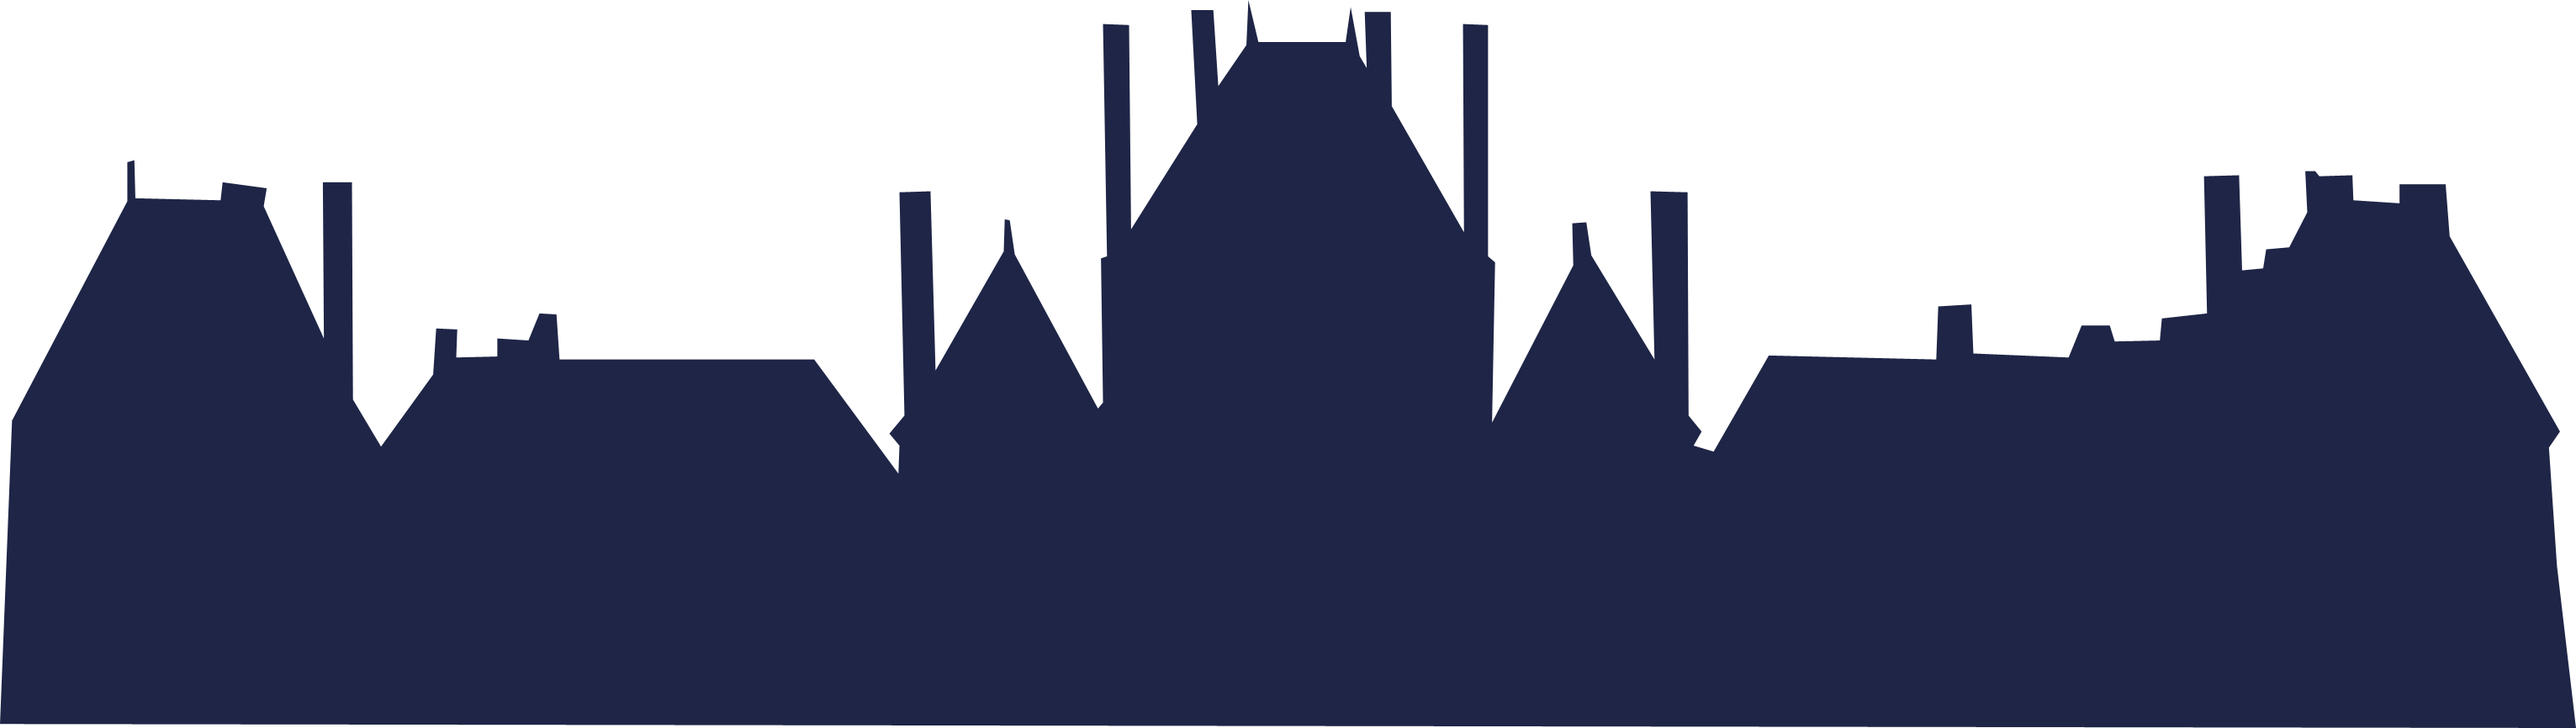
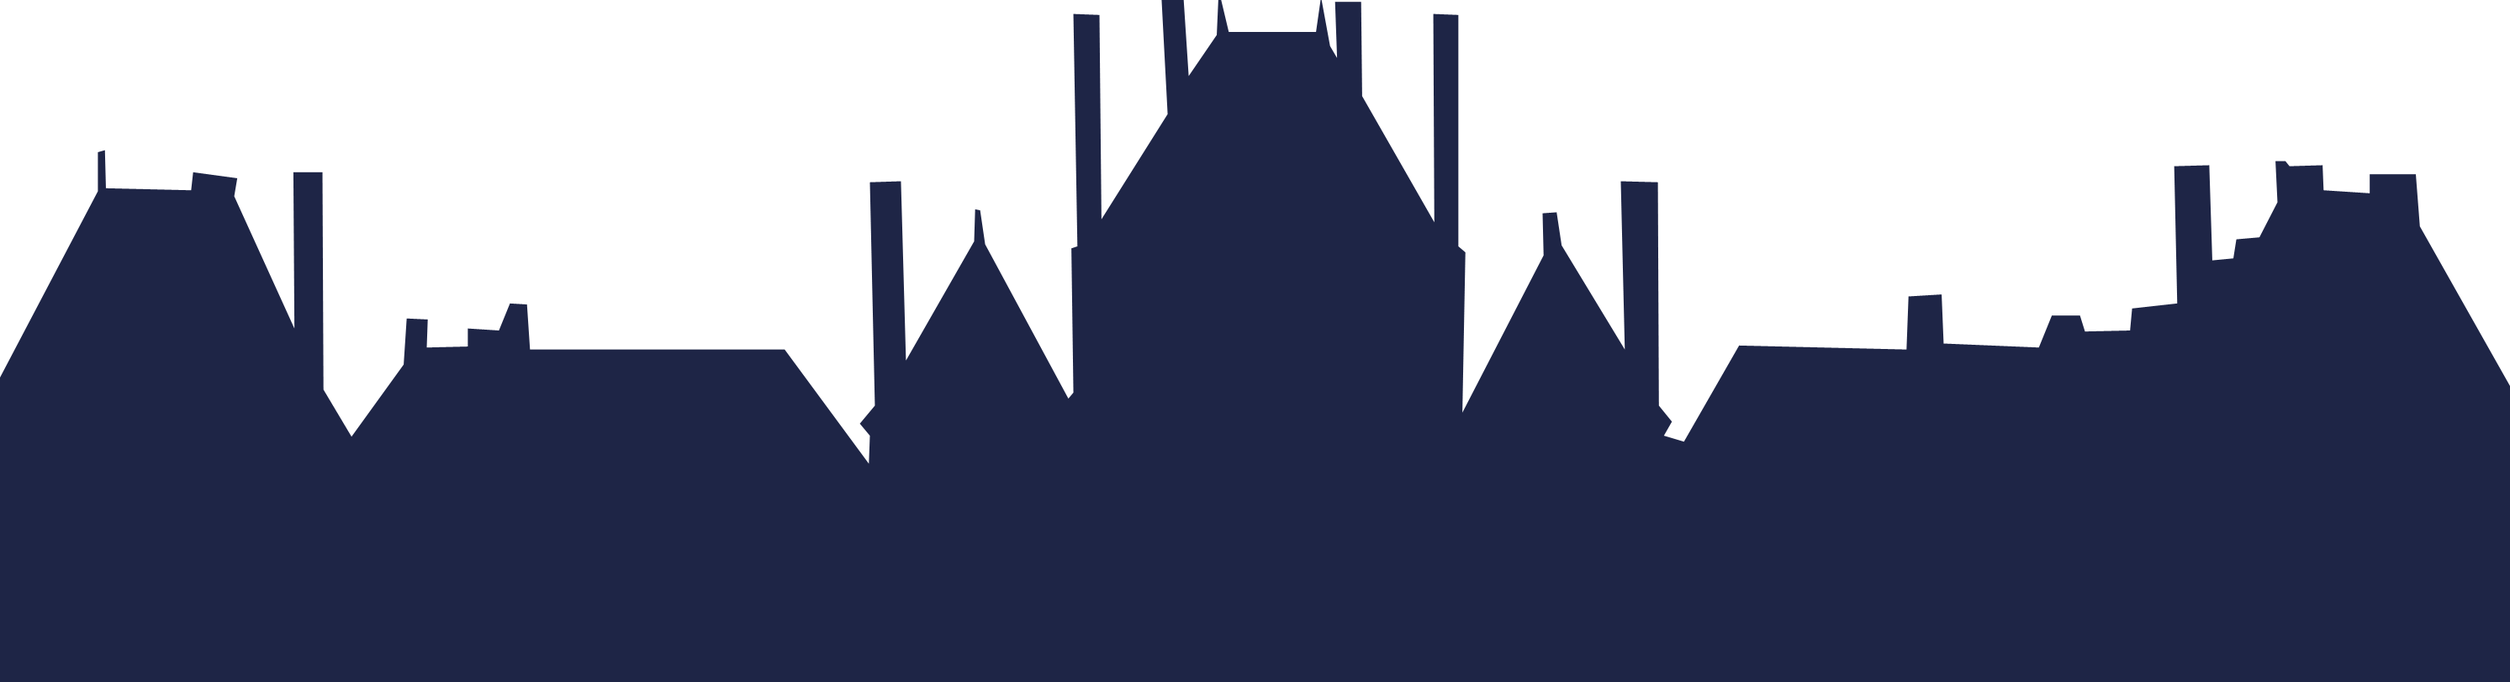
update home

diff --git a/beeblo-app/src/app/FO/home/home.component.scss b/beeblo-app/src/app/FO/home/home.component.scss
@@ -42,10 +42,12 @@
 .home-btn {
   text-align: center;
   padding-top: 15%;
-  padding-bottom: 8%;
+  padding-bottom: 15%;
+  width: 100%;
   background-image: url('../../../assets/img/home/home-footer.png');
-  background-size: cover;
-  background-position: center;
+  background-size: 100%;
+  background-position: bottom;
+  background-repeat: no-repeat;
 }
 
 .home-btn-collection {
